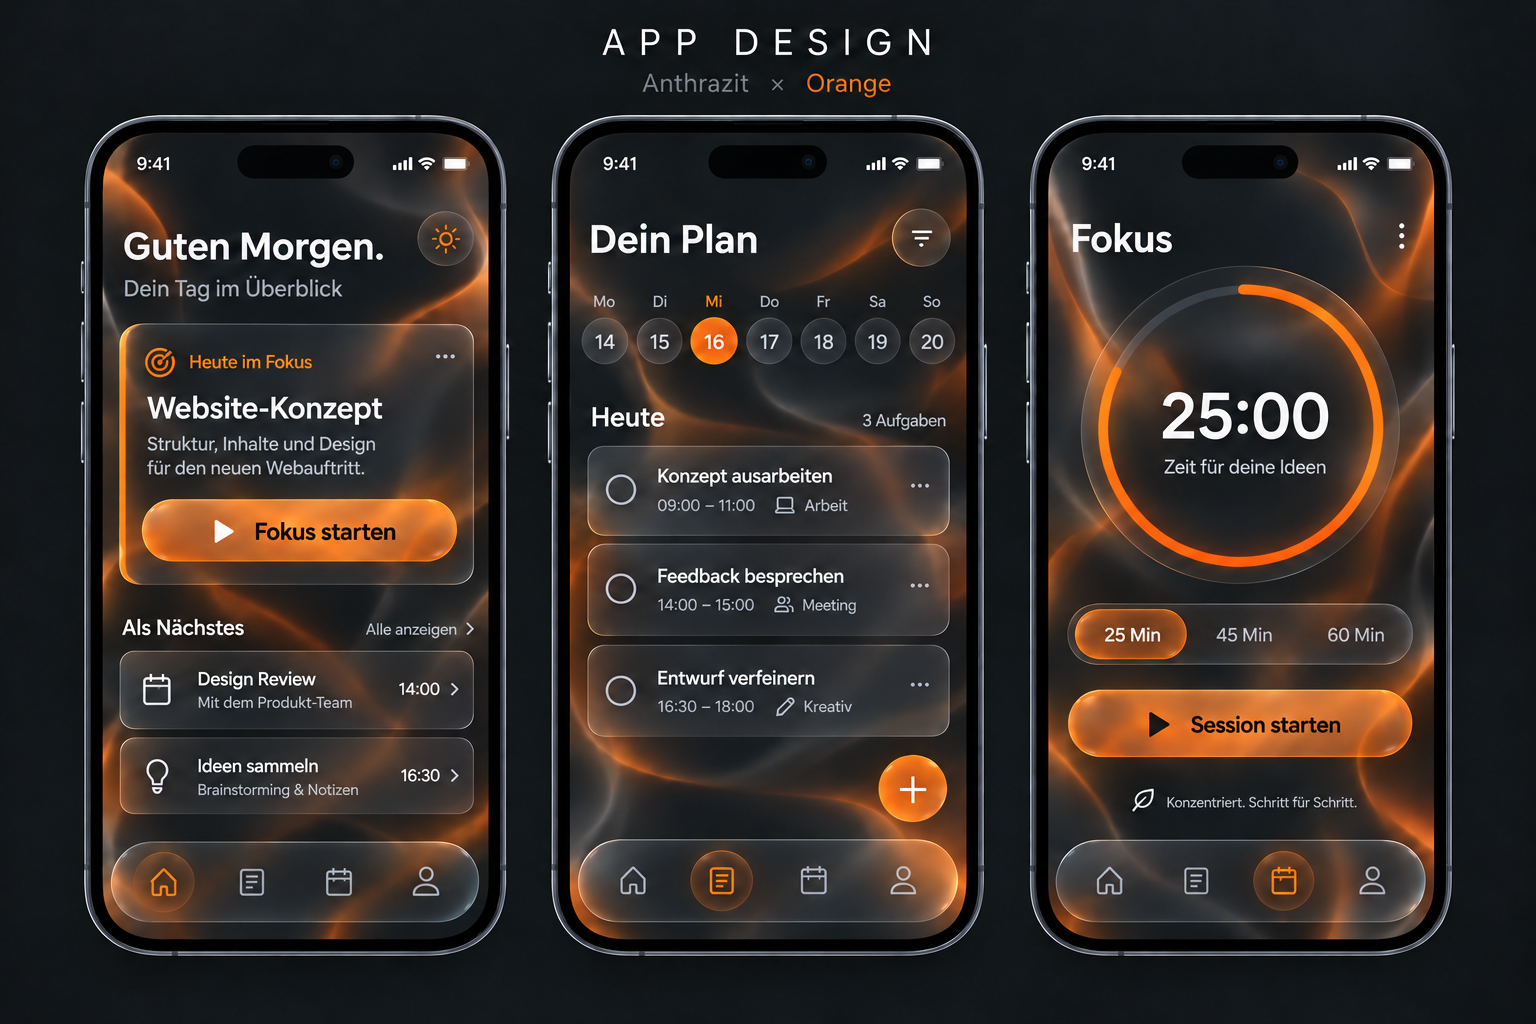
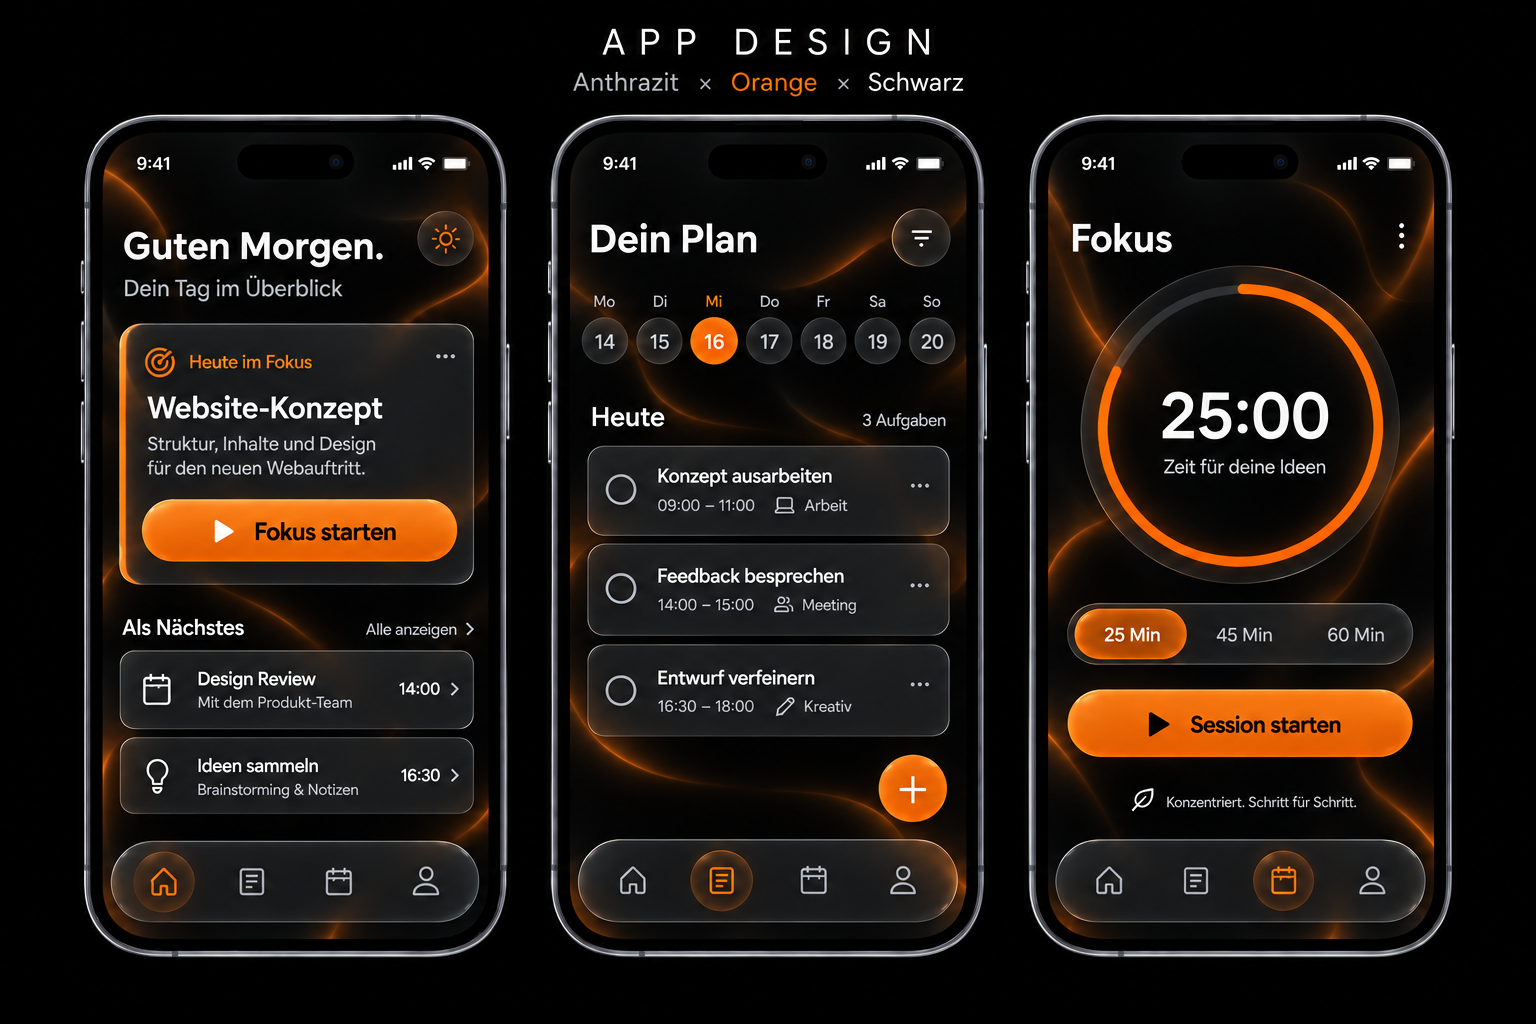
Ergänze Schwarz als dritte Farbe der App-Designvorlage

diff --git a/UEBERGABE.md b/UEBERGABE.md
@@ -1,0 +1,15 @@
+# Übergabe: App-Design
+
+Stand: 10.11.2026. Ausgangsstand: `cc0c3ea`.
+
+Die Referenz besteht aus [dem freigegebenen Mockup](app-design-manrope.png) und [der Farbspezifikation](design-beschreibung.txt). Schwarz (#000000) bildet den Grund, Anthrazit (#181A1E) die Karten, Orange (#FF7A1A) die primären Aktionen. Schwarze Schrift auf der orangen Grundfarbe hat ein Kontrastverhältnis von 8,05:1. Konturen trennen die dunklen Ebenen.
+
[1 lines of base64/hex data omitted]
+
+Für die Übernahme in Apps: Grund, Karten und Aktionsflächen getrennt behandeln; die Lichtwellen bleiben Dekoration.
+
+## Bildbearbeitung
+
+Integrierte Bildbearbeitung mit der vorherigen Version von `app-design-manrope.png` als Referenz. Bildauftrag:
+
+> Bearbeite nur die Farbgebung der mitgelieferten originalen Designvorlage (Edit target). Gleiche Komposition im Querformat 3:2, alle drei vollständigen Geräte, dieselben Screens, Inhalte, deutschen Texte, Zahlen, Manrope-artige Typografie, Abstände und Navigation beibehalten. Ergänze echtes Schwarz #000000 als klar erkennbare tiefste Ebene: die ruhigen Freiflächen hinter Karten, die vertiefte Mitte des Fokustimers und die Zwischenräume. Die darüberliegenden Glasflächen, Karten und Navigationsleisten bleiben erkennbar Anthrazit #181A1E mit feinen hellen Kanten. Orange #FF7A1A bleibt für primäre Aktionen, Auswahl und Fokus-Ring; die vorhandenen organischen Lichtwellen sparsam beibehalten. Helle Schrift wie im Original, auf hellorangefarbenen Aktionsflächen schwarze Beschriftung. Oben Titel »APP DESIGN« erhalten, Unterzeile exakt »Anthrazit × Orange × Schwarz« gut lesbar setzen, das Wort Schwarz nicht schwarz auf schwarz. Keine neuen Bedienelemente, keine weiteren Labels, kein Umgestalten der App.

diff --git a/README.md b/README.md
@@ -1,17 +1,20 @@
-# App-Design: Anthrazit × Orange
+# App-Design: Anthrazit × Orange × Schwarz
 
-Modernes App-Konzept mit transparenten Glasflächen und Manrope als festgelegter Schriftart.
+Schwarz gibt den drei Screens Tiefe, anthrazitfarbene Glasflächen tragen den Inhalt, und Orange zeigt, was aktiv ist. Manrope bleibt die festgelegte Schriftart.
 
 ![App-Design mit drei Screens](app-design-manrope.png)
 
 ## Gestaltung
 
-- Dunkles Anthrazit: `#181A1E`
-- Orange Akzentfarbe: `#FF7A1A`
-- Haupttext: `#F5F5F7`
-- Sekundärtext: `#A7ABB3`
-- Transparente Karten, Buttons, Datumsfelder und schwebende Navigation
-- Weich gerundete Formen und feine Glaskanten, inspiriert von Apple Liquid Glass
+| Designfarbe | Rolle | Beispiel in der Vorlage |
+|---|---|---|
+| Schwarz `#000000` | Tiefste, ruhige Ebene | Hintergrund hinter den Karten, Zwischenräume und Mitte des Fokustimers |
+| Anthrazit `#181A1E` | Oberfläche über Schwarz | Fokuskarte, Aufgabenliste, inaktive Datumsfelder und schwebende Navigation |
+| Orange `#FF7A1A` | Aktion und aktiver Zustand | Start-Button, gewählter Tag und Fortschrittsring |
+
+Die abgerundeten Glasflächen behalten ihre feinen Lichtkanten. Sanfte orange Lichtwellen dürfen im Hintergrund durchscheinen. Schwarz ersetzt nicht die Kartenfarbe: Die Trennung von Grund und Oberfläche soll auf allen drei Screens erkennbar bleiben.
+
+**Lesbarkeit:** Haupttext `#F5F5F7` und Sekundärtext `#A7ABB3` stehen auf dunklen Flächen. Auf vollflächigem Orange sind Beschriftungen schwarz (Kontrast 8,05:1). Schwarz und Anthrazit allein unterscheiden sich nur schwach (1,21:1); wichtige Bediengrenzen deshalb mit Kontur oder Form kennzeichnen. Bei transparenten Karten zählt der tatsächlich sichtbare Hintergrund.
 
 ## Typografie
 
